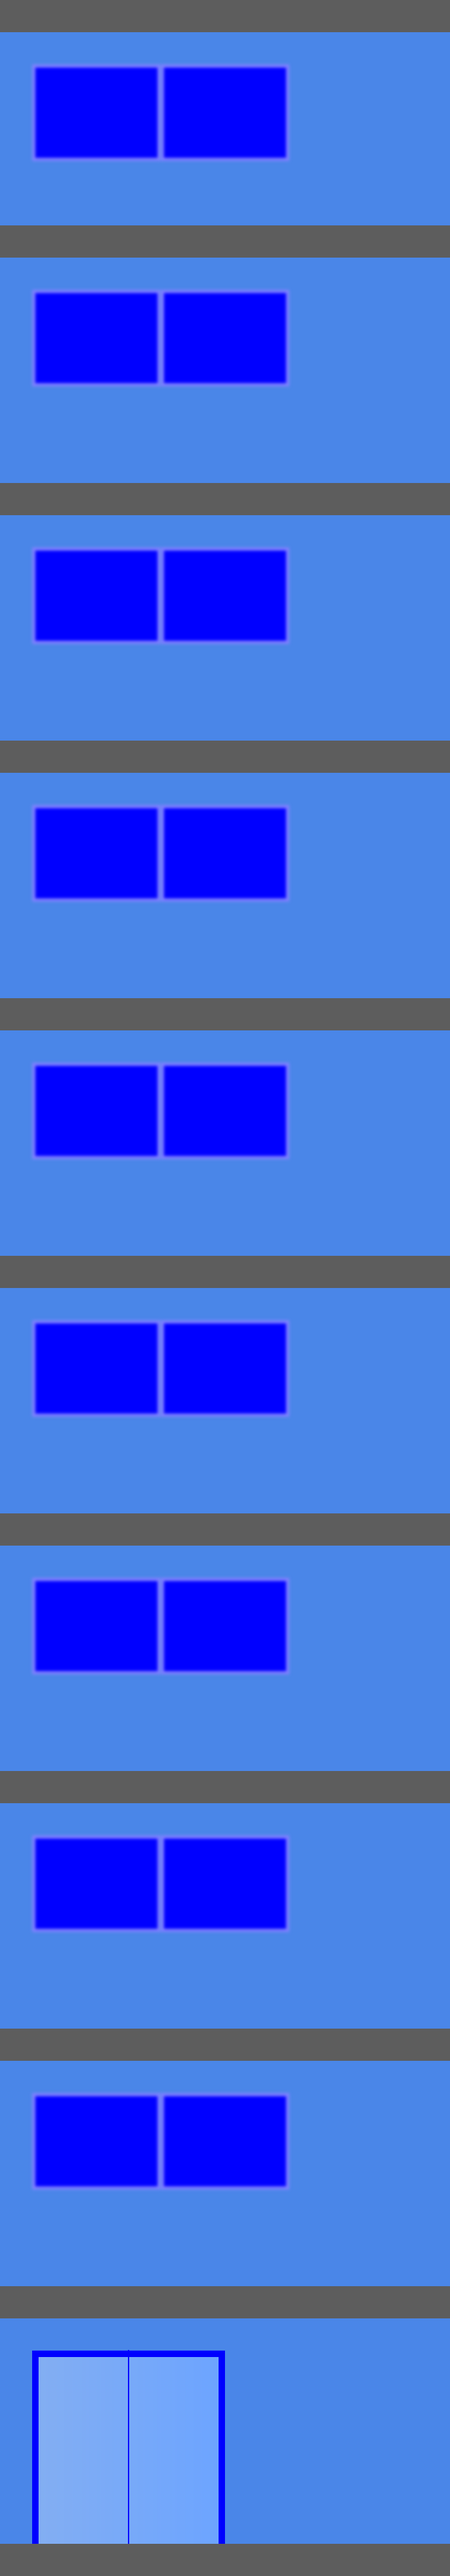
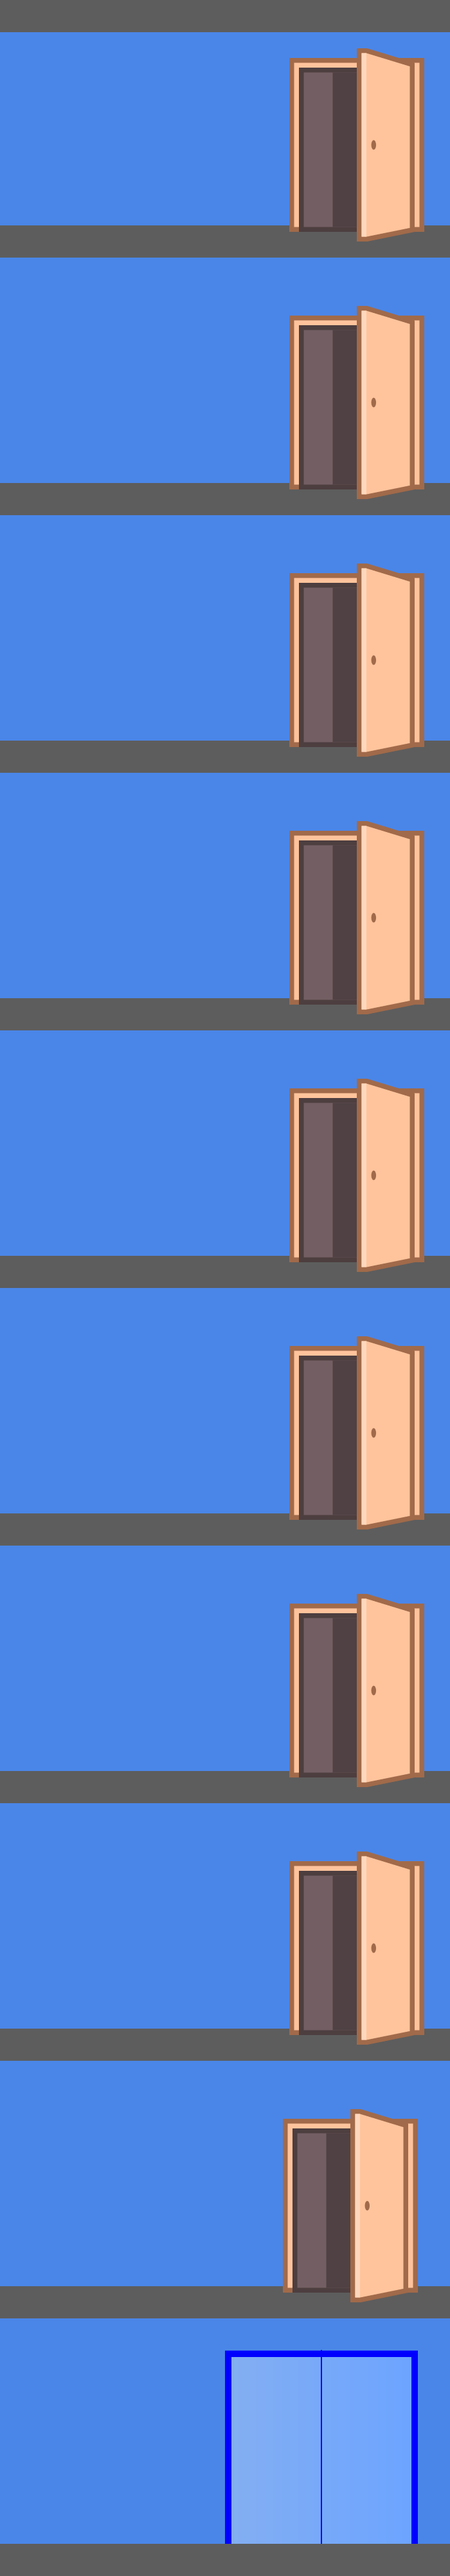
ui: animate EXIT action

diff --git a/src/main/java/io/elevatorsim/main/FloorView.java b/src/main/java/io/elevatorsim/main/FloorView.java
@@ -5,6 +5,7 @@ import javafx.animation.ParallelTransition;
 import javafx.animation.SequentialTransition;
 import javafx.animation.TranslateTransition;
 import javafx.event.ActionEvent;
+import javafx.event.EventHandler;
 import javafx.fxml.FXML;
 import javafx.fxml.FXMLLoader;
 import javafx.fxml.Initializable;
@@ -98,12 +99,27 @@ public class FloorView extends AnchorPane implements Initializable {
 
     }
 
-    public void pullRandomUser() {
-        System.out.println("Not implemented yet"); // TODO corresponds to user leaving the elevator and accessing the floor
-    }
+    public void pullNRandomUser(int n, EventHandler<ActionEvent> callback) {
+        SequentialTransition sequentialTransition = new SequentialTransition();
+        for (int i = 0; i < n; i++) {
+            Node user = createRandomUser();
+            this.getChildren().add(user);
+            AnchorPane.setBottomAnchor(user, 10.);
+            AnchorPane.setRightAnchor(user, 185.);
 
-    public void pullNRandomUser(int n) {
-        System.out.println("Not implemented yet"); // TODO corresponds to user leaving the elevator and accessing the floor
+            TranslateTransition translateTransition = new TranslateTransition(TRANSLATE_DURATION, user);
+            translateTransition.setByX(70);
+
+            FadeTransition fadeTransition = new FadeTransition(FADE_DURATION, user);
+            fadeTransition.setFromValue(1.);
+            fadeTransition.setToValue(0.);
+            fadeTransition.setOnFinished(event -> this.getChildren().remove(user));
+
+            sequentialTransition.getChildren().add(translateTransition);
+            sequentialTransition.getChildren().add(fadeTransition);
+        }
+        sequentialTransition.setOnFinished(callback);
+        sequentialTransition.play();
     }
 
     private ImageView createRandomUser() {

diff --git a/src/main/java/io/elevatorsim/main/MainController.java b/src/main/java/io/elevatorsim/main/MainController.java
@@ -7,6 +7,7 @@ import io.elevatorsim.story.StoryBoardView;
 import javafx.animation.TranslateTransition;
 import javafx.fxml.FXML;
 import javafx.fxml.Initializable;
+import javafx.scene.image.Image;
 import javafx.scene.image.ImageView;
 import javafx.scene.layout.AnchorPane;
 import javafx.scene.layout.BorderPane;
@@ -81,8 +82,26 @@ public class MainController implements Initializable {
         });
     }
 
+    public void openElevator() {
+        URL url = getClass().getResource("/main/elevator-opened.png");
+        if (url == null)
+            throw new RuntimeException();
+        elevator_IMG.setImage(new Image("file://" + url.getPath()));
+    }
+
+    public void closeElevator() {
+        URL url = getClass().getResource("/main/elevator-closed.png");
+        if (url == null)
+            throw new RuntimeException();
+        elevator_IMG.setImage(new Image("file://" + url.getPath()));
+    }
+
     public FloorView getFloor(int floorNb) {
         return (FloorView) floorsContainer_VBX.getChildren().get(NB_FLOORS - floorNb - 1);
+    }
+
+    public FloorView getElevatorFloor() {
+        return getFloor(elevatorFloorNb);
     }
 
     public boolean isElevatorMoving() { return this.elevatorMoving; }

diff --git a/src/main/java/io/elevatorsim/story/StoryBoardView.java b/src/main/java/io/elevatorsim/story/StoryBoardView.java
@@ -63,15 +63,17 @@ public class StoryBoardView extends VBox implements Initializable {
         execute_BTN.setOnAction((ActionEvent e) -> {
             System.out.println(nbUser.get() + " user(s) " + action_CMB.getSelectionModel().getSelectedItem() + " at floor " + floorNb.get());
             FloorView floorView = mainController.getFloor(floorNb.get());
+            FloorView elevatorFloorView = mainController.getElevatorFloor();
             switch (action_CMB.getSelectionModel().getSelectedItem()) {
                 case ARRIVE:
-                        floorView.pushNRandomUser(nbUser.get());
+                    floorView.pushNRandomUser(nbUser.get());
                     break;
                 case ENTER:
-                    floorView.popNUser(nbUser.get());
+                    elevatorFloorView.popNUser(nbUser.get());
                     break;
                 case EXIT:
-                    floorView.pullNRandomUser(nbUser.get());
+                    mainController.openElevator();
+                    elevatorFloorView.pullNRandomUser(nbUser.get(), (ActionEvent event) -> mainController.closeElevator());
                     break;
             }
         });
